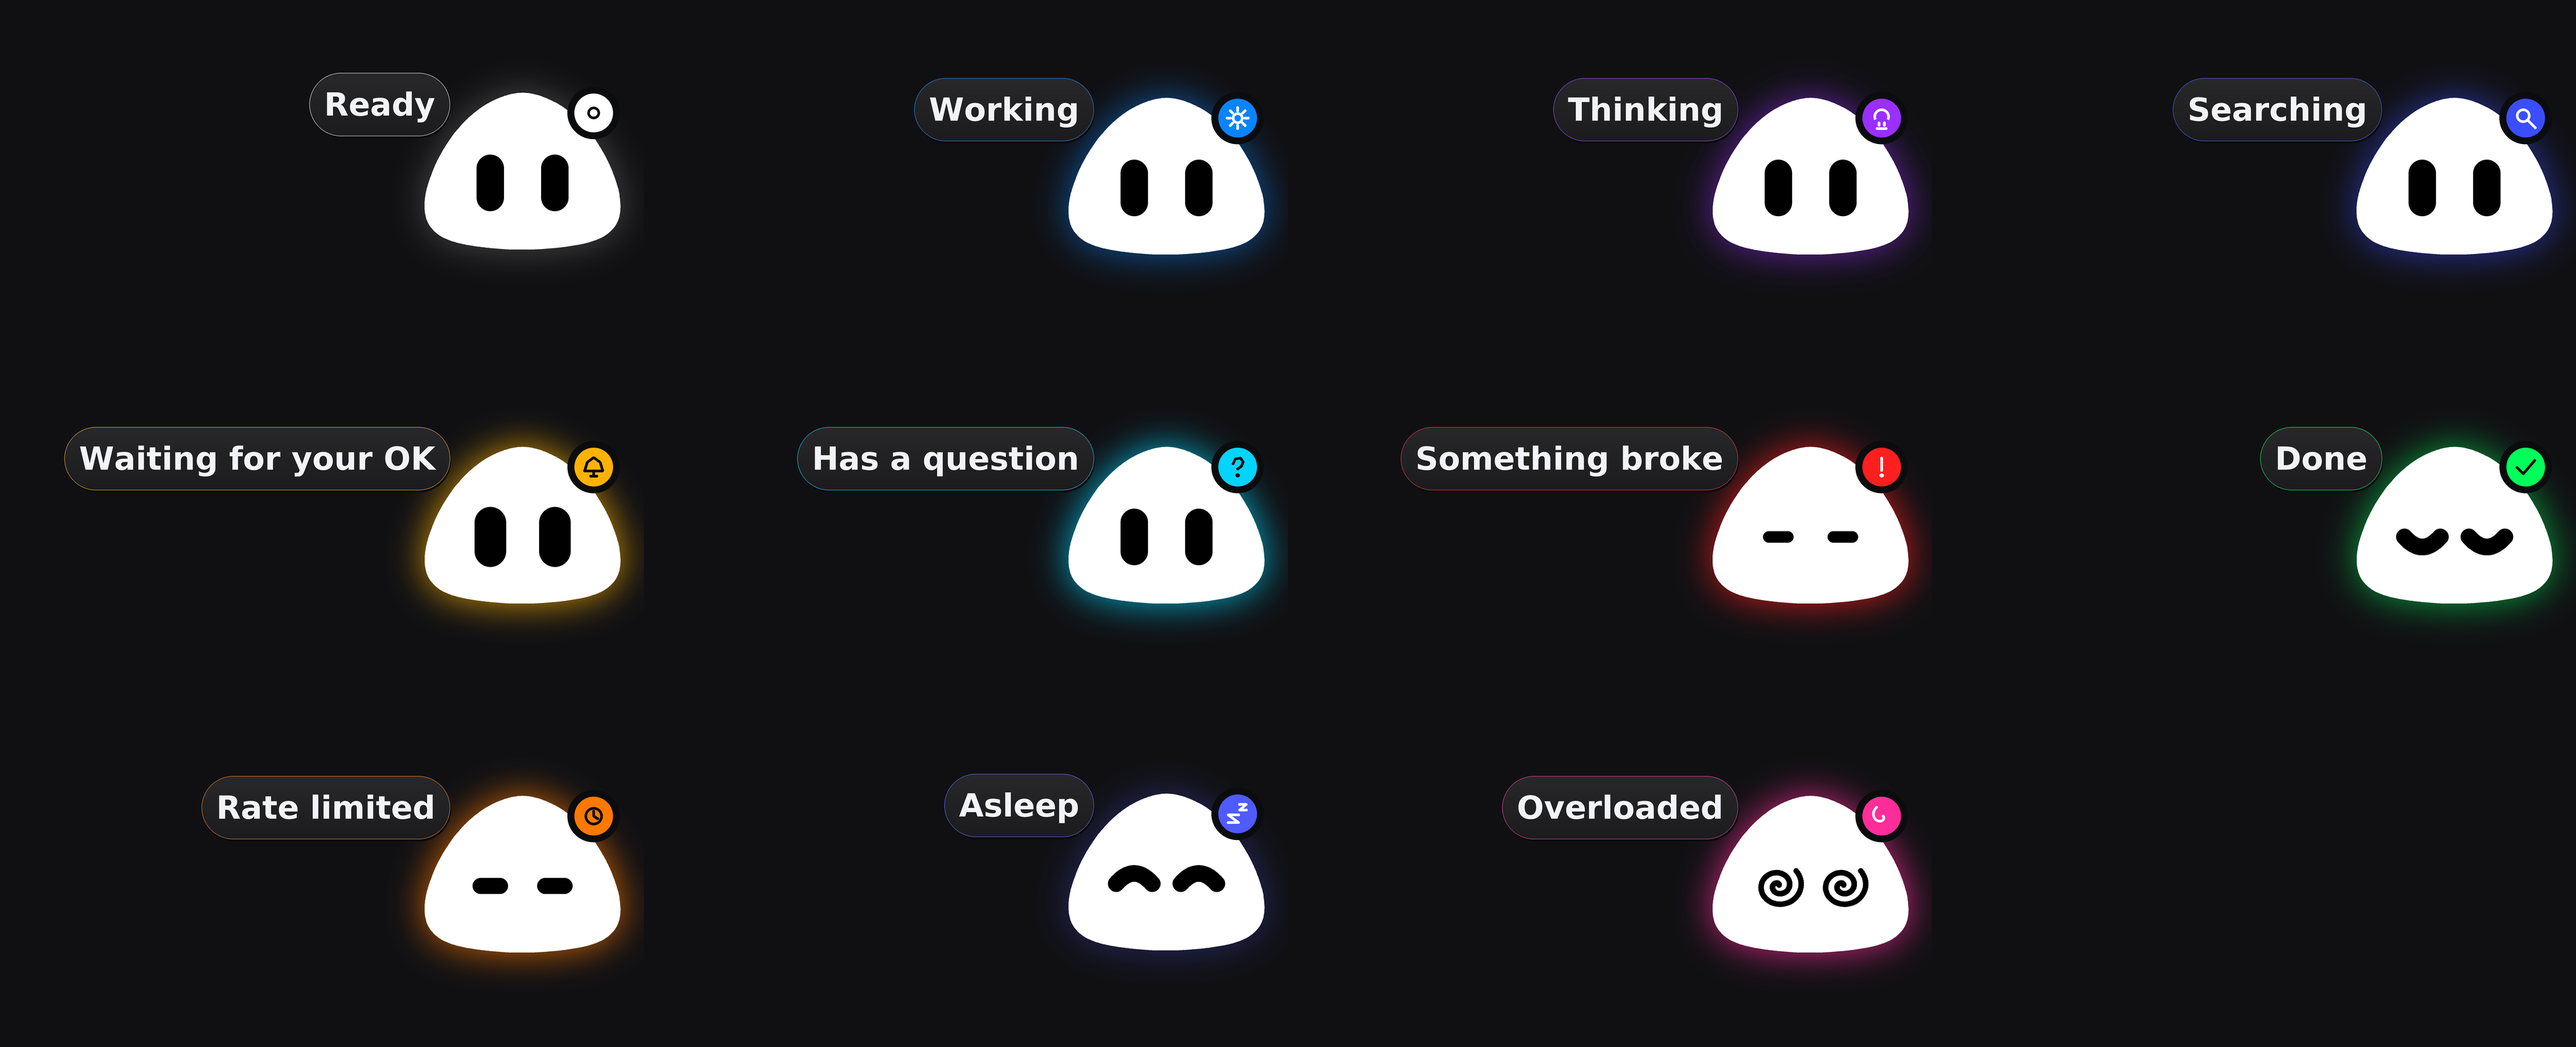
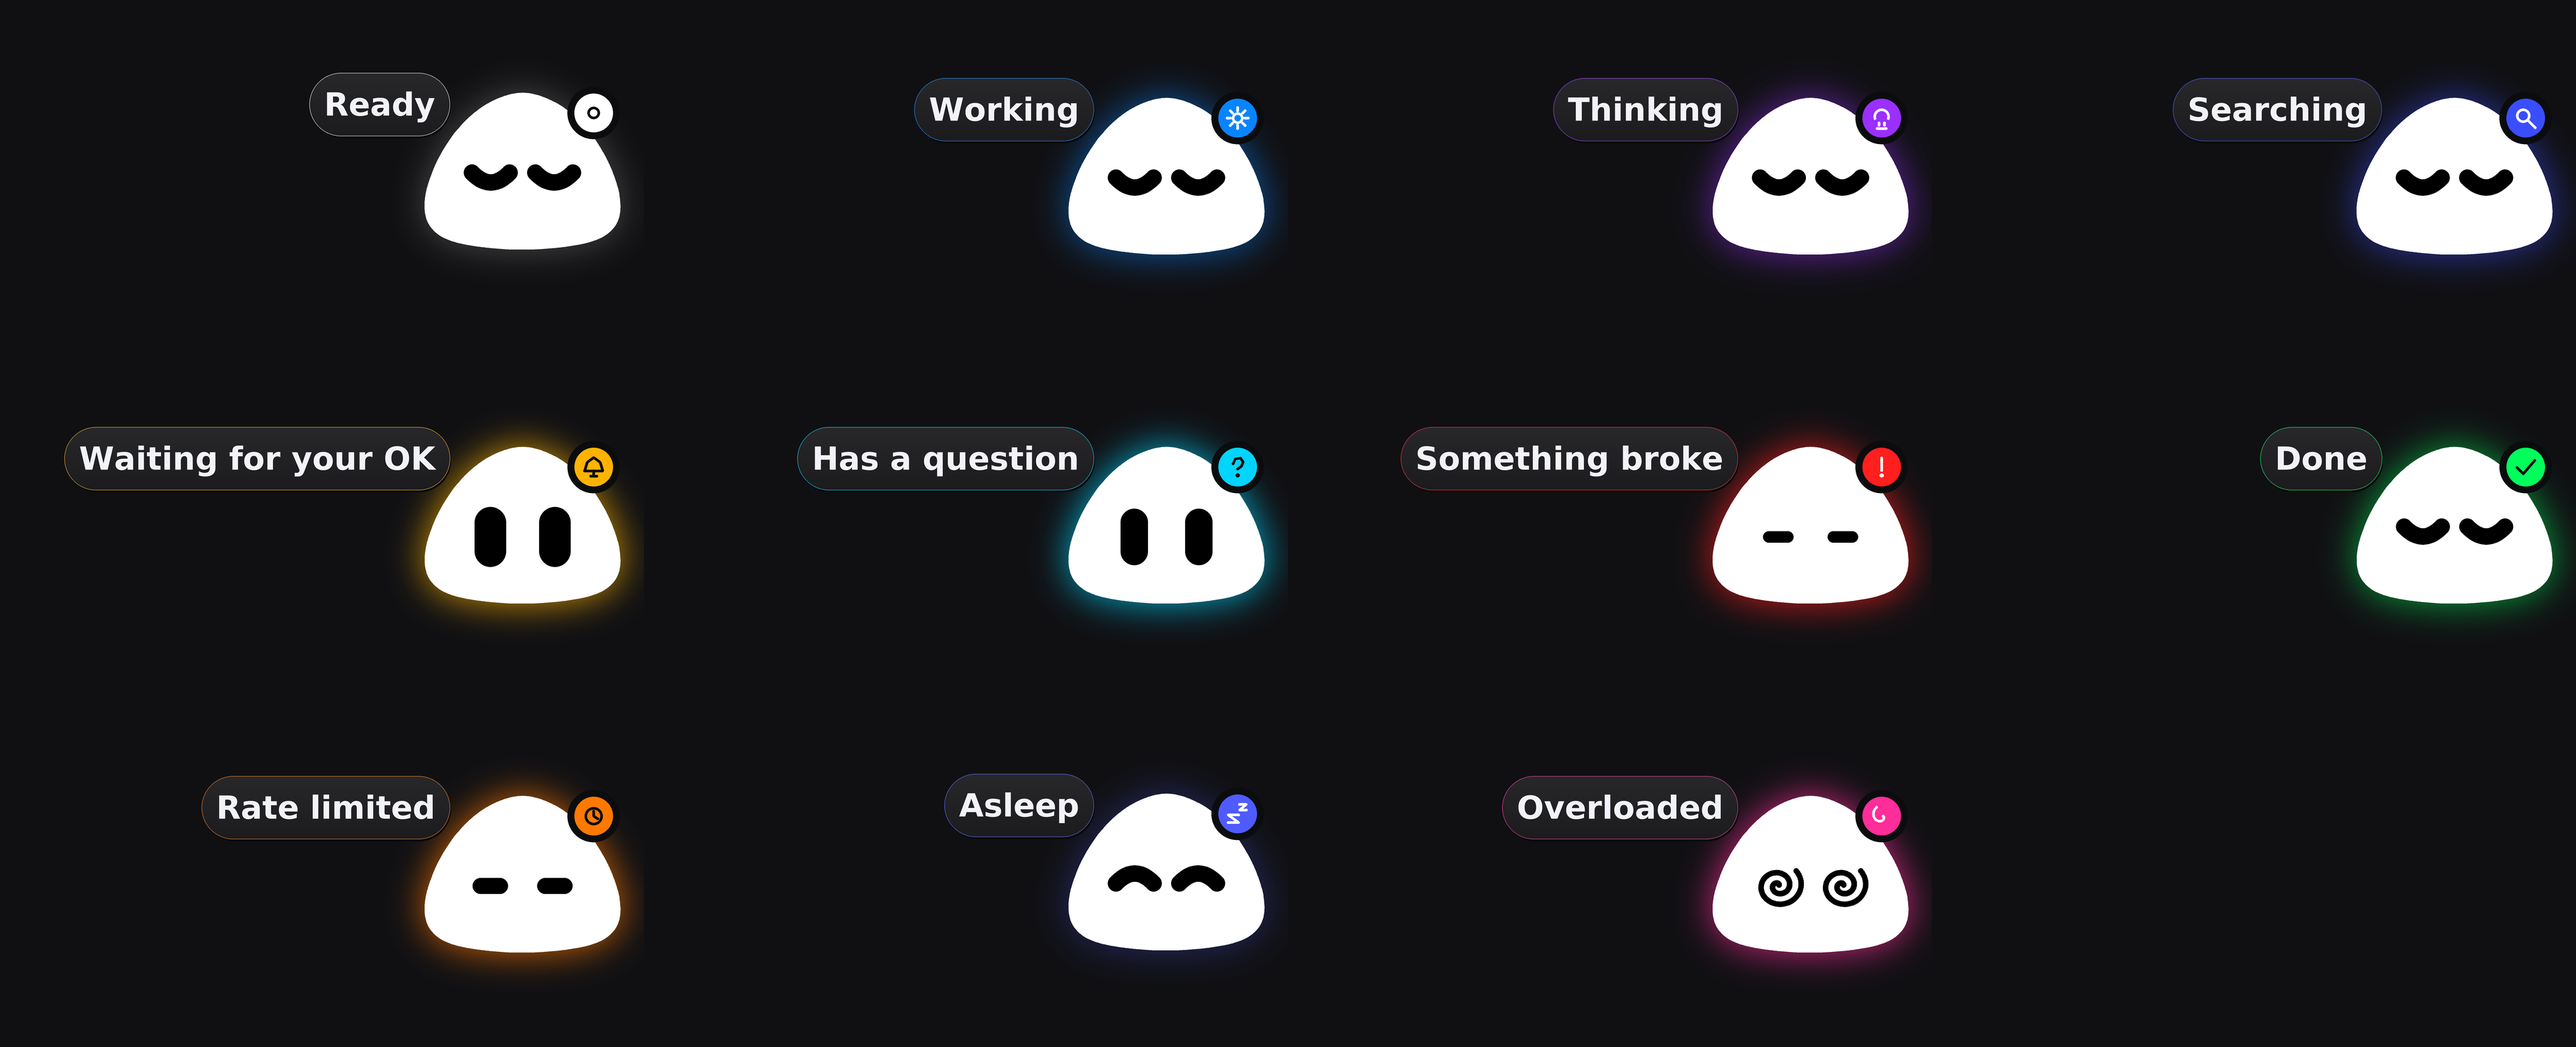
character: the ∪∪ face he drew, and the two bugs it exposed
He chose the closed lids as LUPY's resting face. Eyes are open only when he
needs something from you — approval, a question, something broke. Ready,
Working, Thinking, Searching, Done all wear the ∪∪.

Geometry, all measured off the sketch:
  ink      0.084 of body width (stroke 0.60 of the eye's base width)
  rise     0.050
  lift     0.028 above the socket, where his lids sit
  span     1.38 — a round cap adds half a stroke at each end, and at the old
           1.80 the two lids met in the middle and read as a moustache

Two real bugs found on the way, both invisible in the app until now:

  * effectiveEyeStyle was computed and never used. The mood overrides — asleep,
    heavy lids on a low battery — were dead code, so the character stayed wide
    awake on a sleeping machine. eyes() now draws effectiveEyeStyle.
  * the sheet drew arcs at 1.8x the app's stroke weight: scene.py used the
    spanned width as the stroke basis. Both renderers now use the base width.

Closed lids no longer slide with the pointer (a lid is not looking anywhere),
and the rim clamp now measures the shape actually drawn, so a swung eye cannot
poke through the silhouette.

132 headless assertions, six of them new for this face.

diff --git a/Mac/Sources/Lupy/Character/LupyCharacterMath.swift b/Mac/Sources/Lupy/Character/LupyCharacterMath.swift
@@ -244,8 +244,12 @@ enum LupyEyes {
             // against the rim and squash the far eye into a sliver. A third of a radian
             // still reads unmistakably as "looking there", with the far eye only lightly
             // foreshortened — composed, not googly.
-            let longitude = side * neutralYaw + yaw * 0.30
-            let latitude = -neutralPitch + pitch * 0.32
+            // A closed lid does not look anywhere: letting the pointer drag the ∪∪
+            // around reads as a decal sliding on his face.
+            let lookYaw = style.isArc ? 0 : yaw
+            let lookPitch = style.isArc ? 0 : pitch
+            let longitude = side * neutralYaw + lookYaw * 0.30
+            let latitude = -neutralPitch + lookPitch * 0.32
             let cl = LM.cos(latitude)
             let visible = LM.cos(longitude) * cl > 0.04
 
@@ -254,8 +258,16 @@ enum LupyEyes {
             // narrowest point of the dome across the eye's full height — that is what
             // stops a corner of the eye poking through the rim.
             let ey = LM.sin(latitude) * (ry / bodyWidth)
+                + (style.isArc ? style.arcLift : 0)
             let fy = LM.clamp(cl / restFY, 0.18, 1.15)
-            let halfH = LupyGeometry.eyeH * fy * 0.5
+            // The rim clamp must measure the shape that is actually drawn: an arc is
+            // 1.8x the capsule's width, and using the capsule's width let a swung eye
+            // poke through the silhouette.
+            let drawnW = LupyGeometry.eyeW * (style.isArc ? style.arcSpan : style.capsuleScale.x)
+            let drawnH = style.isArc
+                ? style.arcInkHeight
+                : LupyGeometry.eyeH * style.capsuleScale.y
+            let halfH = drawnH * fy * 0.5
             let hwCentre = LupyBody.halfWidth(atY: ey)
             var room = hwCentre
             for k in [-0.85, 0.85] {
@@ -264,7 +276,7 @@ enum LupyEyes {
             }
             let fx = LM.clamp(LM.cos(longitude) / restFX, 0.18, 1.15)
             var ex = LM.sin(longitude) * hwCentre
-            let limit = room - LupyGeometry.eyeW * fx * 0.5 - 0.008
+            let limit = room - drawnW * fx * 0.5 - 0.008
             if ex > limit { ex = limit }
             if ex < -limit { ex = -limit }
 
@@ -784,9 +796,12 @@ struct LupyRig {
     func eyes(bodyWidth: Double) -> [LupyEyeFrame] {
         let rx = bodyWidth * 0.5
         let ry = bodyWidth * 0.5 * LupyGeometry.bodyAspect
+        // effectiveEyeStyle, not state.eyeStyle: the mood overrides (asleep, heavy
+        // lids) were computed and then never drawn — the character stayed awake with
+        // his eyes open on a sleeping machine.
         return LupyEyes.frames(yaw: gazeX.value, pitch: gazeY.value,
                                rx: rx, ry: ry, bodyWidth: bodyWidth,
-                               style: state.eyeStyle)
+                               style: effectiveEyeStyle)
     }
 }
 
@@ -825,12 +840,33 @@ extension LupyEyeStyle {
         }
     }
 
-    /// Half the span of a stroked arc eye, as a multiple of the eye's own width.
-    var arcSpan: Double { 1.32 }
-    /// How far the arc bows, as a fraction of body width. Negative = ∪ (down), positive = ∩ (up).
-    var arcBow: Double { 0.052 }
-    /// Stroke weight, as a fraction of the eye's drawn width.
-    var arcStroke: Double { 0.46 }
+    /// True for the two closed-lid shapes. A closed eye is not looking anywhere, so
+    /// it must not slide around with the pointer, and its ink is much wider than a
+    /// capsule (see arcSpan), which changes how close to the rim it may sit.
+    var isArc: Bool { self == .cup || self == .arch }
+
+    /// Half the span of a stroked arc eye, as a multiple of the eye's own (capsule)
+    /// width.
+    ///
+    /// This is the *path*, not the ink: a round cap adds half a stroke at each end.
+    /// The sketch's two lids leave 0.052 of body width of white between them. With
+    /// the eyes 0.328 apart centres-to-centres and a 0.084 stroke, the path has to be
+    /// 0.328 − 0.052 − 0.084 = 0.192 wide: 0.192 / 0.139 = 1.38. At the old 1.80 the
+    /// caps met in the middle and the two lids read as a moustache.
+    var arcSpan: Double { 1.38 }
+    /// How far the arc bows, as a fraction of body width — the path's rise, not the
+    /// ink's. The sketch's lid is 0.134 tall and its ink 0.084, so the rise is 0.050.
+    var arcBow: Double { 0.050 }
+    /// Stroke weight, as a fraction of the eye's *base* width (never the spanned
+    /// width — that made the sheet draw arcs at nearly double the app's weight).
+    /// 0.60 × 0.139 = 0.084 of body width, which is the sketch's measured ink.
+    var arcStroke: Double { 0.60 }
+    /// How far the closed lid sits above the resting socket, in body widths: the
+    /// sketch centres its lids 0.369 above the base, the socket is at 0.341.
+    var arcLift: Double { 0.028 }
+
+    /// The height the arc's ink actually covers, in body widths: the bow plus a stroke.
+    var arcInkHeight: Double { arcBow + 0.139 * arcStroke }
 
     /// Spiral ink, as a fraction of the eye's width. Coucou draws its dizzy spiral at
     /// 0.22 of the eye width; anything thinner reads as a hairline next to the fat
@@ -859,9 +895,13 @@ enum LupyCharacterState: Int, CaseIterable {
     case idle, working, thinking, searching, approval, question
     case error, finished, rateLimit, sleeping, dizzy
 
+    /// Eyes open only when he needs something from *you*: approval, a question, or
+    /// something broke. Everything else runs with the calm ∪∪ lids the founder drew —
+    /// state is carried by the light and the badge, not by staring.
     var eyeStyle: LupyEyeStyle {
         switch self {
-        case .idle, .working, .thinking, .searching, .question: return .capsule
+        case .idle, .working, .thinking, .searching: return .cup
+        case .question: return .capsule
         case .approval: return .wide
         case .error: return .dash
         case .rateLimit: return .halfLid

diff --git a/tools/character/rig_tests.swift b/tools/character/rig_tests.swift
@@ -321,6 +321,10 @@ final class RigTests {
         mm = 0
         while mm < 90 { sleepRig.step(dt: LupyFrameClock.step); mm += 1 }
         ok(sleepRig.effectiveEyeStyle == .arch, "an empty battery closes his eyes")
+        // The app draws what effectiveEyeStyle says. It used to ignore it, so the
+        // character stayed wide awake on a sleeping machine.
+        ok(sleepRig.eyes(bodyWidth: 1.0).allSatisfy { $0.style == .arch },
+           "the drawn eyes are the overridden ones, not the raw state's")
 
         print("\n== composition ==")
         ok(LupyComposition.glowReach <= LupyComposition.frameHalf,
@@ -357,6 +361,41 @@ final class RigTests {
            "the glow blur is the one number the app and the sheets share")
         ok(LupyComposition.unit(width: 24, height: 24) > 16,
            "the 24 pt menu-bar body is still bigger than half the frame")
+
+        print("\n== the ∪∪ face the founder drew ==")
+        // He chose closed lids as LUPY's resting face; open eyes only when he needs you.
+        for st in [LupyCharacterState.idle, .working, .thinking, .searching, .finished] {
+            ok(st.eyeStyle == .cup, "\(st.name) wears the calm ∪∪ lids")
+        }
+        for st in [LupyCharacterState.question, .approval, .error] {
+            ok(st.eyeStyle != .cup, "\(st.name) opens his eyes: it needs something from you")
+        }
+        // Geometry, measured off the sketch, in body widths.
+        near(LupyEyeStyle.cup.arcStroke * 0.139, 0.084, 0.004,
+             "the lid's ink is the sketch's 0.084 of body width")
+        near(LupyEyeStyle.cup.arcLift, 0.028, 0.002,
+             "the lids ride where the sketch puts them")
+        // A round cap adds half a stroke at each end: the path must keep the lids apart.
+        let eyeSpan = LupyGeometry.eyeCentreX * 2
+        let drawn = LupyEyeStyle.cup.arcSpan * LupyGeometry.eyeW + LupyEyeStyle.cup.arcStroke * LupyGeometry.eyeW
+        ok(eyeSpan - drawn > 0.03,
+           "the two lids never touch — they read as eyes, not a moustache")
+        // Closed lids do not look around: the pointer must not drag them.
+        var lookRig = LupyRig()
+        lookRig.requestedState = .working
+        lookRig.movePointer(to: 400, -200)
+        var n = 0
+        while n < 90 { lookRig.step(dt: LupyFrameClock.step); n += 1 }
+        let closed = lookRig.eyes(bodyWidth: 1.0)
+        ok(closed.allSatisfy { abs($0.x) < 0.18 },
+           "a closed lid stays put instead of sliding with the mouse")
+        // And they must fit inside the silhouette at their widest point.
+        for f in closed {
+            let halfSpan = LupyGeometry.eyeW * LupyEyeStyle.cup.arcSpan * 0.5
+            let rim = LupyBody.halfWidth(atY: f.y)
+            ok(abs(f.x) + halfSpan <= rim,
+               "the closed lid is drawn inside his own rim")
+        }
 
         print("\n== the words match the face ==")
         // The dots are drawn by the bubble, not typed into the label: one ellipsis only.

diff --git a/Mac/Sources/Lupy/Character/LupyCanvasView.swift b/Mac/Sources/Lupy/Character/LupyCanvasView.swift
@@ -211,10 +211,12 @@ enum LupyRenderer {
                 // the bow come from the kernel, so the app and the sheet cannot drift.
                 let w = baseW * LupyEyeStyle.arch.arcSpan
                 let bow = unit * LupyEyeStyle.arch.arcBow * (eye.style == .arch ? -1 : 1)
+                // Centred on the socket. Drawn from the socket's line downwards, the
+                // ink sat entirely below the eye's real position and the lids read low.
                 var arc = Path()
-                arc.move(to: CGPoint(x: cx - w * 0.5, y: cy))
-                arc.addQuadCurve(to: CGPoint(x: cx + w * 0.5, y: cy),
-                                 control: CGPoint(x: cx, y: cy + bow))
+                arc.move(to: CGPoint(x: cx - w * 0.5, y: cy - bow * 0.5))
+                arc.addQuadCurve(to: CGPoint(x: cx + w * 0.5, y: cy - bow * 0.5),
+                                 control: CGPoint(x: cx, y: cy + bow * 0.5))
                 context.stroke(arc, with: .color(.black),
                                style: StrokeStyle(lineWidth: max(1, baseW * LupyEyeStyle.arch.arcStroke),
                                                   lineCap: .round, lineJoin: .round))

diff --git a/tools/character/rig_states.swift b/tools/character/rig_states.swift
@@ -30,7 +30,9 @@ struct StateEmitter {
         let isArc = style == .arch || style == .cup
         for f in rig.eyes(bodyWidth: 1.0) where f.visible {
             let halfW = f.w * f.fx * 0.5 * (isArc ? style.arcSpan : sc.x)
-            let halfH = f.h * f.fy * rig.drawnBlinkOpen * 0.5 * (isArc ? 1 : sc.y)
+            // The arc's ink height is bow + stroke, not the capsule's height.
+            let halfH = (isArc ? style.arcInkHeight : f.h * sc.y)
+                * f.fy * rig.drawnBlinkOpen * 0.5
             guard halfH > 0.0008 else { continue }
             let name: String
             switch style {

diff --git a/tools/character/scene.py b/tools/character/scene.py
@@ -35,6 +35,9 @@ BUBBLE_FONT = 0.163
 BUBBLE_PAD = 0.075
 BUBBLE_TRAILING_INSET = 0.37   # right edge, from the body's centre
 BUBBLE_RISE = 0.34            # centre, above the body's centre
+ARC_SPAN = 1.38          # the ∪ is 1.8x a capsule's width
+ARC_BOW = 0.050
+ARC_STROKE = 0.60
 DOT_R = 0.018
 DOT_GAP = 0.016
 
@@ -197,15 +200,19 @@ def draw_character(img, state, u, cx, cy, ss=1):
                 a += 0.10
             stroke(d, pts, max(1.0, w * 0.20), INK)
         else:
-            bow = 0.052 * u * ss * (-1 if style == "arch" else 1)
+            # `w` is the drawn span (1.8x a capsule); the stroke is defined against the
+            # capsule's base width, as in the app. Using the span made the sheet's arcs
+            # nearly twice as heavy as the app's.
+            base_w = w / (ARC_SPAN if style in ("arch", "cup") else 1.0)
+            bow = ARC_BOW * u * ss * (-1 if style == "arch" else 1)
             n = 24
             pts = []
             for i in range(n + 1):
                 t = i / n
                 x = ex_p - w / 2 + w * t
-                y = ey_p + bow * (1 - (2 * t - 1) ** 2)
+                y = ey_p - bow / 2 + bow * (1 - (2 * t - 1) ** 2)
                 pts.append((x, y))
-            stroke(d, pts, max(1.0, w * 0.46), INK)
+            stroke(d, pts, max(1.0, base_w * ARC_STROKE), INK)
 
     # badge: pinned to the right rim, ring kissing the silhouette
     icon = state.get("icon", "none")
